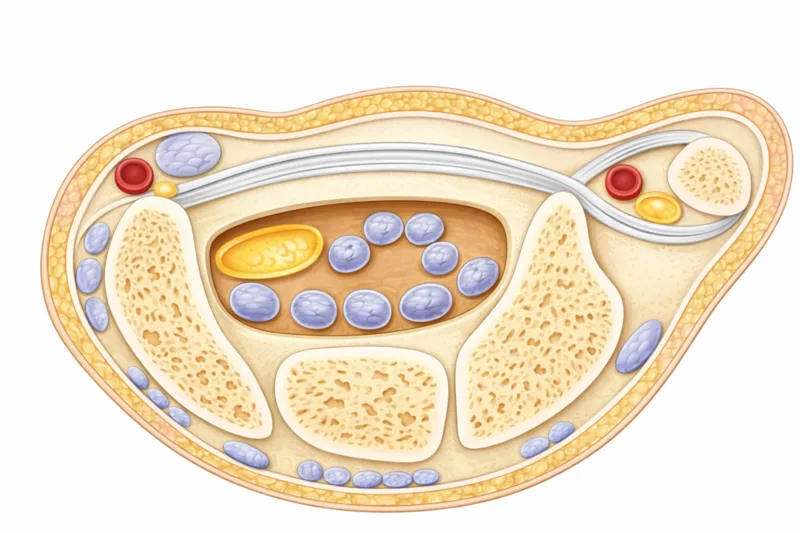
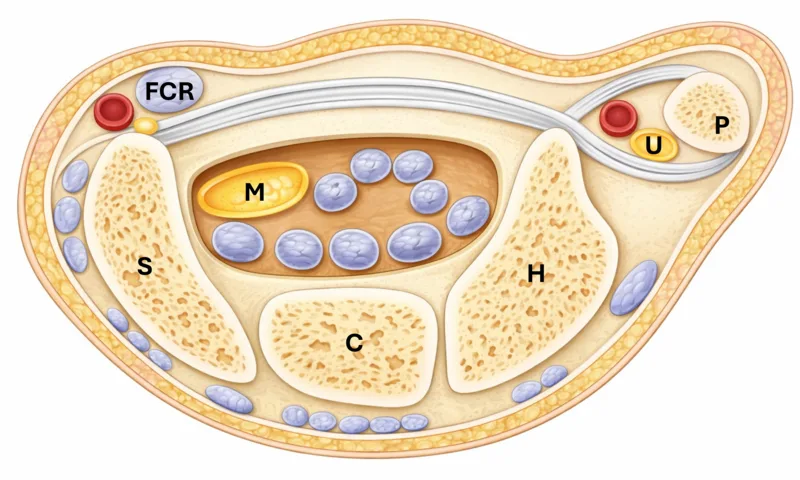
Update axilla/arm/wrist anatomy assets

diff --git a/src/pages/ContentPage.tsx b/src/pages/ContentPage.tsx
@@ -591,6 +591,64 @@ const sensoryInnervationImages: Record<string, { baseName: string; alt: { cs: st
 };
 
 const nerveAnatomyAbbreviations: Record<string, { cs: string[]; en: string[] }> = {
+  "2_axilla": {
+    cs: [
+      "D – m. deltoideus",
+      "PM – m. pectoralis major",
+      "LHBB – caput longum m. biceps brachii",
+      "SHBB – caput breve m. biceps brachii",
+      "CB – m. coracobrachialis",
+      "mc – n. musculocutaneus",
+      "M – n. medianus",
+      "U – n. ulnaris",
+      "R – n. radialis",
+      "Tmaj – m. teres major",
+      "TLa – caput laterale m. triceps brachii",
+      "TLo – caput longum m. triceps brachii",
+      "H – humerus"
+    ],
+    en: [
+      "D – deltoid muscle",
+      "PM – pectoralis major",
+      "LHBB – long head of the biceps brachii",
+      "SHBB – short head of the biceps brachii",
+      "CB – coracobrachialis muscle",
+      "mc – musculocutaneous nerve",
+      "M – median nerve",
+      "U – ulnar nerve",
+      "R – radial nerve",
+      "Tmaj – teres major muscle",
+      "TLa – lateral head of the triceps brachii",
+      "TLo – long head of the triceps brachii",
+      "H – humerus"
+    ]
+  },
+  "1_arm": {
+    cs: [
+      "B – m. biceps brachii",
+      "Br – m. brachialis",
+      "CB – m. coracobrachialis",
+      "H – humerus",
+      "TLa – caput laterale m. triceps brachii",
+      "TM – caput mediale m. triceps brachii",
+      "TLo – caput longum m. triceps brachii",
+      "R – n. radialis",
+      "M – n. medianus",
+      "U – n. ulnaris"
+    ],
+    en: [
+      "B – biceps brachii muscle",
+      "Br – brachialis muscle",
+      "CB – coracobrachialis muscle",
+      "H – humerus",
+      "TLa – lateral head of the triceps brachii",
+      "TM – medial head of the triceps brachii",
+      "TLo – long head of the triceps brachii",
+      "R – radial nerve",
+      "M – median nerve",
+      "U – ulnar nerve"
+    ]
+  },
   "3_elbow": {
     cs: [
       "Br – m. brachioradialis",
@@ -667,6 +725,26 @@ const nerveAnatomyAbbreviations: Record<string, { cs: string[]; en: string[] }> 
       "AIN – anterior interosseous nerve",
       "R – radius",
       "U (bone) – ulna"
+    ]
+  },
+  "5_wrist": {
+    cs: [
+      "FCR – m. flexor carpi radialis",
+      "M – n. medianus",
+      "U – n. ulnaris",
+      "P – os pisiforme",
+      "H – os hamatum",
+      "C – os capitatum",
+      "S – os scaphoideum"
+    ],
+    en: [
+      "FCR – flexor carpi radialis",
+      "M – median nerve",
+      "U – ulnar nerve",
+      "P – pisiform",
+      "H – hamate",
+      "C – capitate",
+      "S – scaphoid"
     ]
   }
 };
